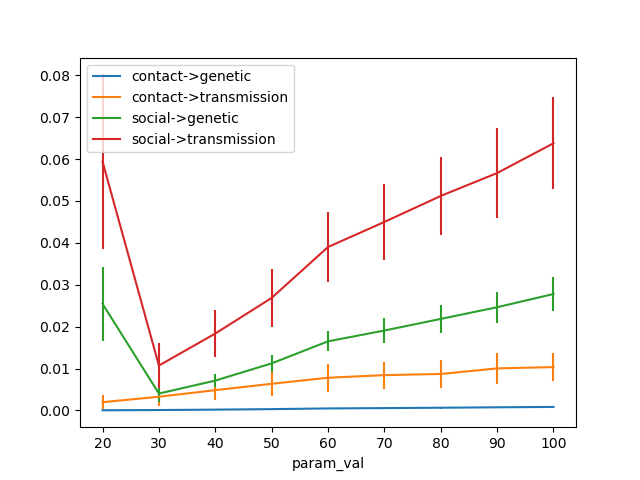
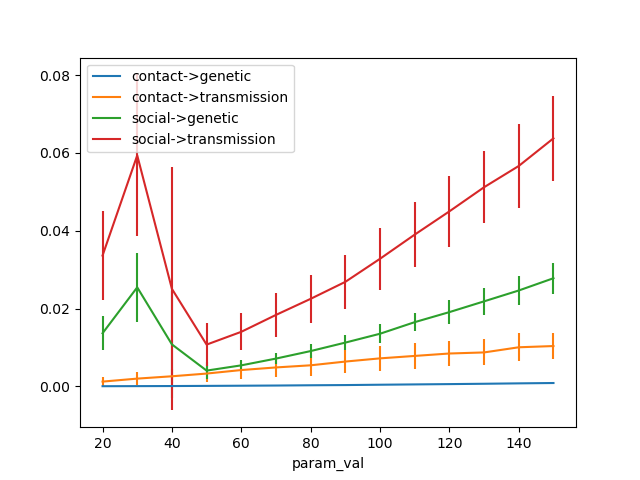
fixed code for plotting when runs are split

diff --git a/simulations/scripts/sensitivity_analysis.py b/simulations/scripts/sensitivity_analysis.py
@@ -25,14 +25,14 @@ def run_each(rds_config,networks_folder):
     return all_results
 
 
-def run_all(base,networks_folder,parentdir,dirnames):
+def run_all(base,networks_folder,parentdir,dirnames,params):
     results_folders = [os.path.expanduser(os.path.join(base,"{}/{}".format(parentdir,dname))) for dname in dirnames]
-    for k,rf in enumerate(results_folders):
+    for k,rf in zip(params,results_folders):
         starttime = time.time()
         all_results = run_each(os.path.join(rf,"rds_config.json"),networks_folder)
         timestamp = datetime.datetime.now().strftime('%Y%m%d%H%M%S')
         all_results.to_csv(os.path.join(rf,"all_results_{}.csv".format(timestamp)),index=False)
-        print("250 RDS simulations {} complete, Time elapsed: {}".format(k+1,time.time()-starttime))
+        print("250 RDS simulations for param {} complete, Time elapsed: {}".format(k,time.time()-starttime))
 
 
 def make_stats_df(results_dirs,xvals,xlabel):
@@ -68,10 +68,14 @@ if __name__ == "__main__":
 
     # # sim 1
     # parentdir = "vary_SN_size_20220722"
-    # dirnames = ["size_200","size_400","size_600","size_800","size_1000"]
-    # param_vals = [200, 400, 600, 800, 1000]
+    # # dirnames = ["size_200","size_400","size_600","size_800","size_1000"]
+    # # param_vals = [200, 400, 600, 800, 1000]
+    # dirnames = ["size_300","size_500","size_650","size_700","size_750","size_850","size_900","size_950"]
+    # param_vals = [300,500,650,700,750,850,900,950]
     # param_type = "Social Sample Size"
     # tag = "sn_samp_size"
+    # all_param_vals = [200,300,400,500,600,650,700,750,800,850,900,950,1000]
+    # all_dir_names =  ["size_200","size_300","size_400","size_500","size_600","size_650","size_700","size_750","size_800","size_850","size_900","size_950","size_1000"]
 
     # # sim 2
     # parentdir = "vary_SN_acceptance_20220725"
@@ -88,28 +92,31 @@ if __name__ == "__main__":
     # tag = "cn_accept_prob"
 
     # # sim 4
-    # parentdir = "vary_RDS_seeds_20220725"
-    # # dirnames = ["seeds_20","seeds_40","seeds_60","seeds_80","seeds_100"]
-    # # param_vals = [20,40,60,80,100]
-    # dirnames = ["seeds_30","seeds_50","seeds_70","seeds_90","seeds_110","seeds_120","seeds_130","seeds_140","seeds_150"]
-    # param_vals = [30,50,70,90,110, 120, 130, 140, 150]
-    # param_type = "Number of RDS Seeds"
-    # tag = "rds_seeds"
-    # all_param_vals = [20,30,40,50,60,70,80,90,100,110, 120, 130, 140, 150]
+    parentdir = "vary_RDS_seeds_20220725"
+    # dirnames = ["seeds_20","seeds_40","seeds_60","seeds_80","seeds_100"]
+    # param_vals = [20,40,60,80,100]
+    dirnames = ["seeds_30","seeds_50","seeds_70","seeds_90","seeds_110","seeds_120","seeds_130","seeds_140","seeds_150"]
+    param_vals = [30,50,70,90,110, 120, 130, 140, 150]
+    param_type = "Number of RDS Seeds"
+    tag = "rds_seeds"
+    all_param_vals = [20,30,40,50,60,70,80,90,100,110, 120, 130, 140, 150]
+    all_dir_names = ["seeds_20","seeds_30","seeds_40","seeds_50","seeds_60","seeds_70","seeds_80","seeds_90","seeds_100","seeds_110","seeds_120","seeds_130","seeds_140","seeds_150"]
 
-    # sim 5
-    parentdir = "vary_RDS_seeds_hivpos_20220810"
-    dirnames = ["seeds_20","seeds_30","seeds_40","seeds_50","seeds_60","seeds_70","seeds_80","seeds_90","seeds_100","seeds_110","seeds_120","seeds_130","seeds_140","seeds_150"]
-    param_vals =  [20,30,40,50,60,70,80,90,100,110, 120, 130, 140, 150]
-    param_type = "Number of HIV+ RDS Seeds"
-    tag = "rds_seeds_hivpos"
+    # # sim 5
+    # parentdir = "vary_RDS_seeds_hivpos_20220810"
+    # dirnames = ["seeds_20","seeds_30","seeds_40","seeds_50","seeds_60","seeds_70","seeds_80","seeds_90","seeds_100","seeds_110","seeds_120","seeds_130","seeds_140","seeds_150"]
+    # param_vals =  [20,30,40,50,60,70,80,90,100,110, 120, 130, 140, 150]
+    # param_type = "Number of HIV+ RDS Seeds"
+    # tag = "rds_seeds_hivpos"
 
-    # run simulations
-    run_all(base,networks_folder,parentdir,dirnames)
+    # # run simulations
+    # print("Working on {}".format(parentdir))
+    # run_all(base,networks_folder,parentdir,dirnames,param_vals)
     # calc stats and plot results
-    results_dirs = [os.path.join(parentdir,d) for d in dirnames]
-    stats_df = make_stats_df(results_dirs,param_vals,param_type)
-    # stats_df = make_stats_df(results_dirs,all_param_vals,param_type)
+    # results_dirs = [os.path.join(parentdir,d) for d in dirnames]
+    # stats_df = make_stats_df(results_dirs,param_vals,param_type)
+    results_dirs = [os.path.join(parentdir,d) for d in all_dir_names]
+    stats_df = make_stats_df(results_dirs,all_param_vals,param_type)
     stats_df.to_csv(os.path.join(parentdir,"sensitivity_stats_{}.csv".format(tag)),index=False)
     visualize(stats_df,result_type="props")
     
